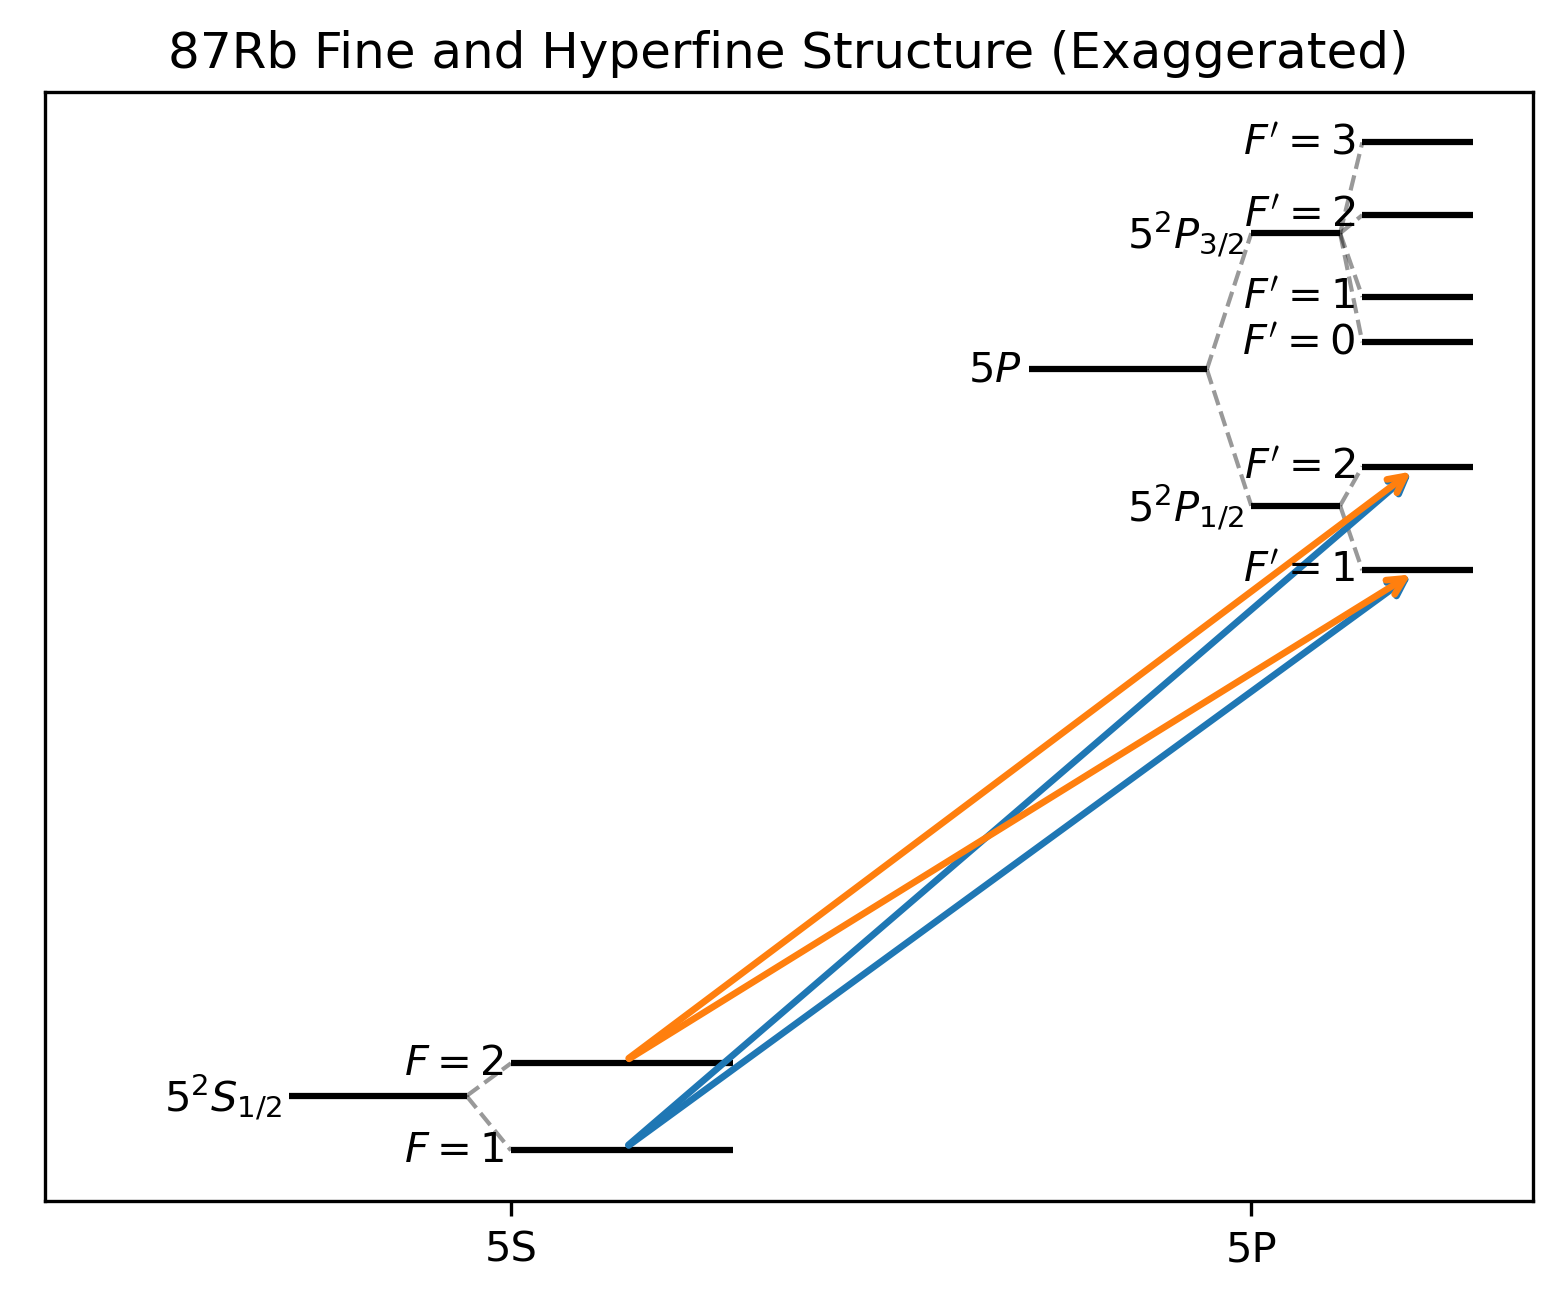
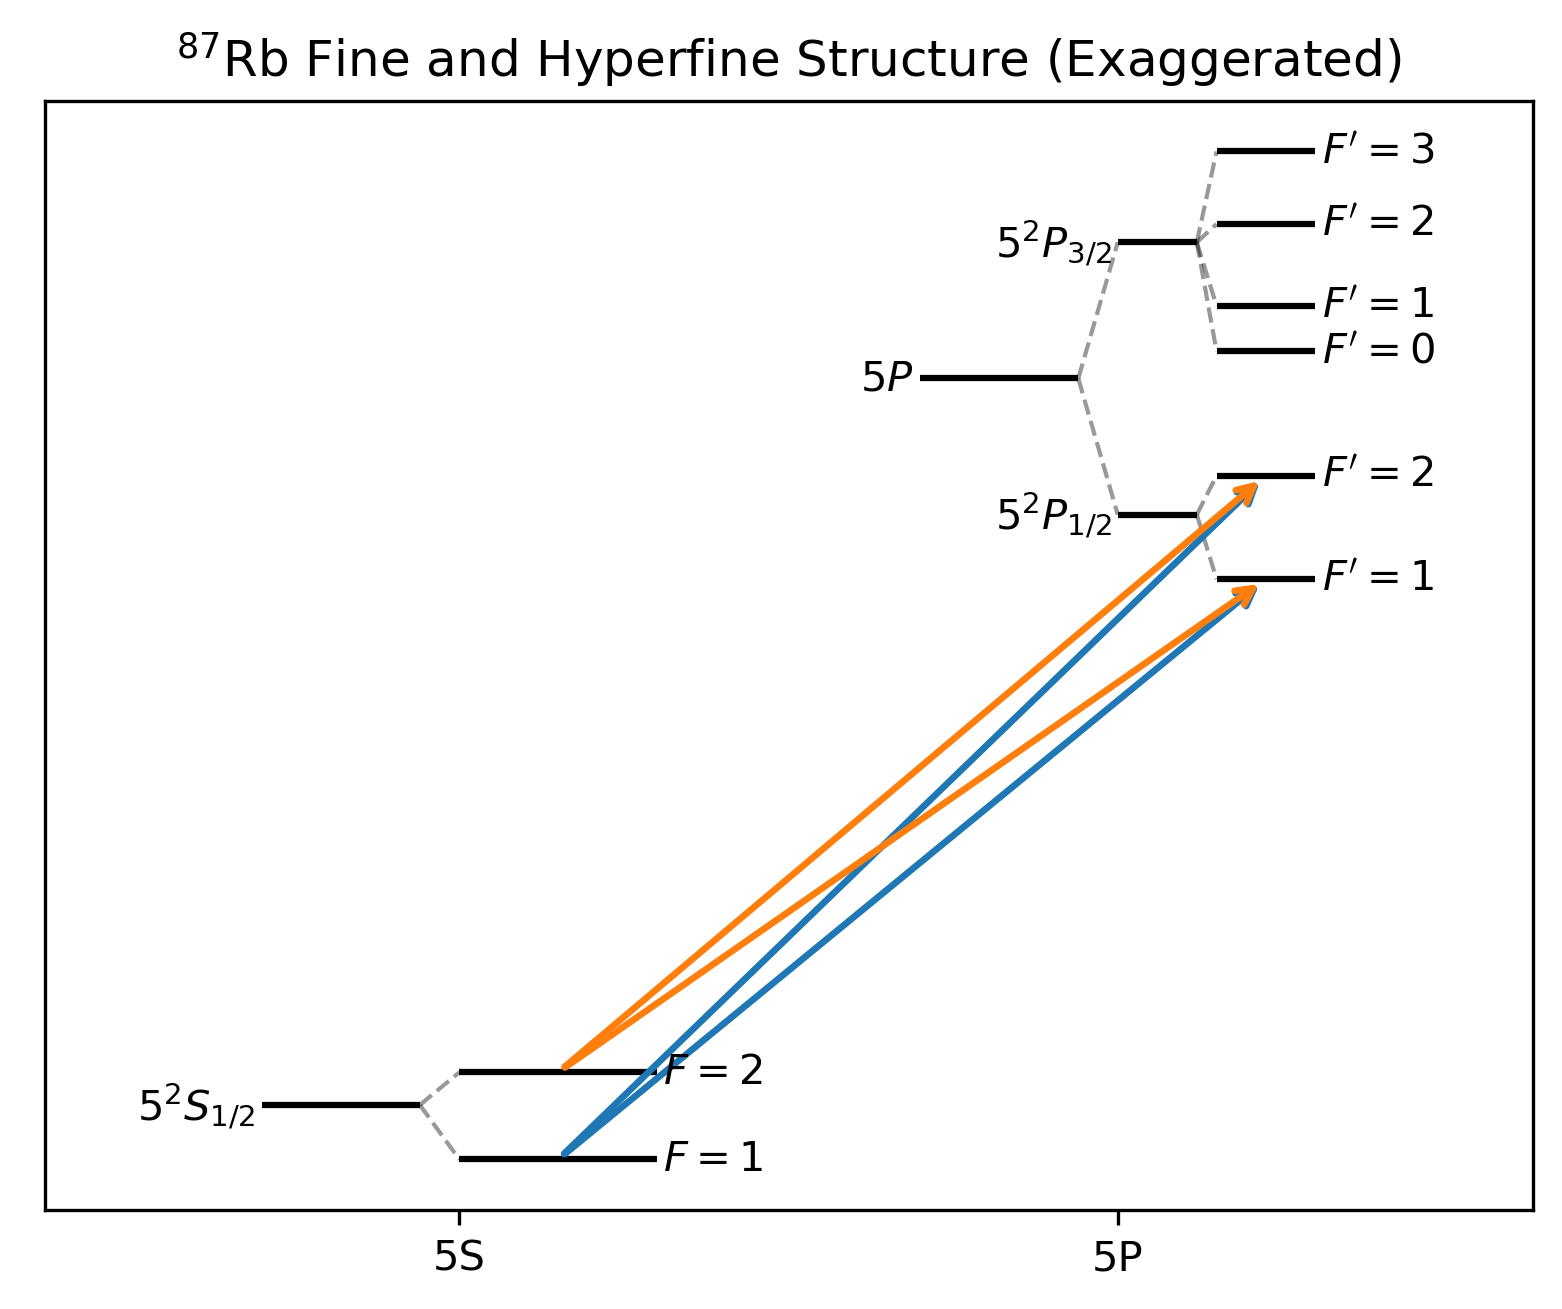
Added label location options.

diff --git a/grotrian.py b/grotrian.py
@@ -83,6 +83,7 @@ class Grotrian:
                 "show": level.get("show", True),
                 "width": width,
                 "x_offs": x0,
+                "loc": level.get("loc", 'left'),
             }
 
             for child in level.get("split", []):
@@ -118,7 +119,7 @@ class Grotrian:
                 "show": level["show"]
             }
 
-    def draw(self, ax=None, text_offset=0.05, level_width=0.3, delta_p=0.3, delta_c=0.6, ax_expan=0.25) -> Axes:
+    def draw(self, ax=None, text_offset=0.05, level_width=0.3, delta_p=0.3, delta_c=0.6, ax_expan_l=0.25, ax_expan_r=0.0) -> Axes:
         """Draw the energy-level diagram."""
 
         assert(delta_p + delta_c <= 1.0)
@@ -133,6 +134,8 @@ class Grotrian:
         for level_id, coords in self.coordinates.items():
             if not coords["show"]:
                 continue
+
+            level = self.levels[level_id]
 
             # Draw the levels
             ax.hlines(
@@ -149,13 +152,24 @@ class Grotrian:
                 ax.plot([par_coords['right'], coords['left']],[par_coords['energy'], coords['energy']], lw=1.0, c='black', ls='--', alpha=0.4)
 
             # Level Labels
-            ax.text(
-                coords["left"] - text_offset,
-                coords["energy"],
-                self.levels[level_id]["label"],
-                va="center",
-                ha="right",
-            )
+            loc = level['loc'] if 'loc' in level else 'left'
+            match loc:
+                case 'left':
+                    lbl_x, lbl_y = coords["left"] - text_offset, coords["energy"],
+                    ha, va = 'right', 'center'
+                case 'right':
+                    lbl_x, lbl_y = coords["right"] + text_offset, coords["energy"],
+                    ha, va = 'left', 'center'
+                case 'above':
+                    lbl_x = (coords["right"] + coords["right"]) / 2
+                    lbl_y = coords["energy"] + text_offset, #Better coordinates needed
+                    ha, va = 'center', 'center'
+                case _:
+                    print(f"Invalid label location ('loc:') for level ID: {level_id}")
+                    lbl_x, lbl_y = coords["left"] - text_offset, coords["energy"],
+                    ha, va = 'right', 'center'
+
+            ax.text(lbl_x, lbl_y, level["label"], va=va, ha=ha)
 
         column_x = self._get_col_dict()
 
@@ -187,6 +201,6 @@ class Grotrian:
         xl = ax.get_xlim()
         lbls = self._get_col_dict().keys()
         ax.set_xticks(range(len(lbls)), labels=lbls)
-        ax.set_xlim([xl[0] - ax_expan, xl[1]]) # Create extra space for labels
+        ax.set_xlim([xl[0] - ax_expan_l, xl[1] + ax_expan_r]) # Create extra space for labels
 
         return ax
